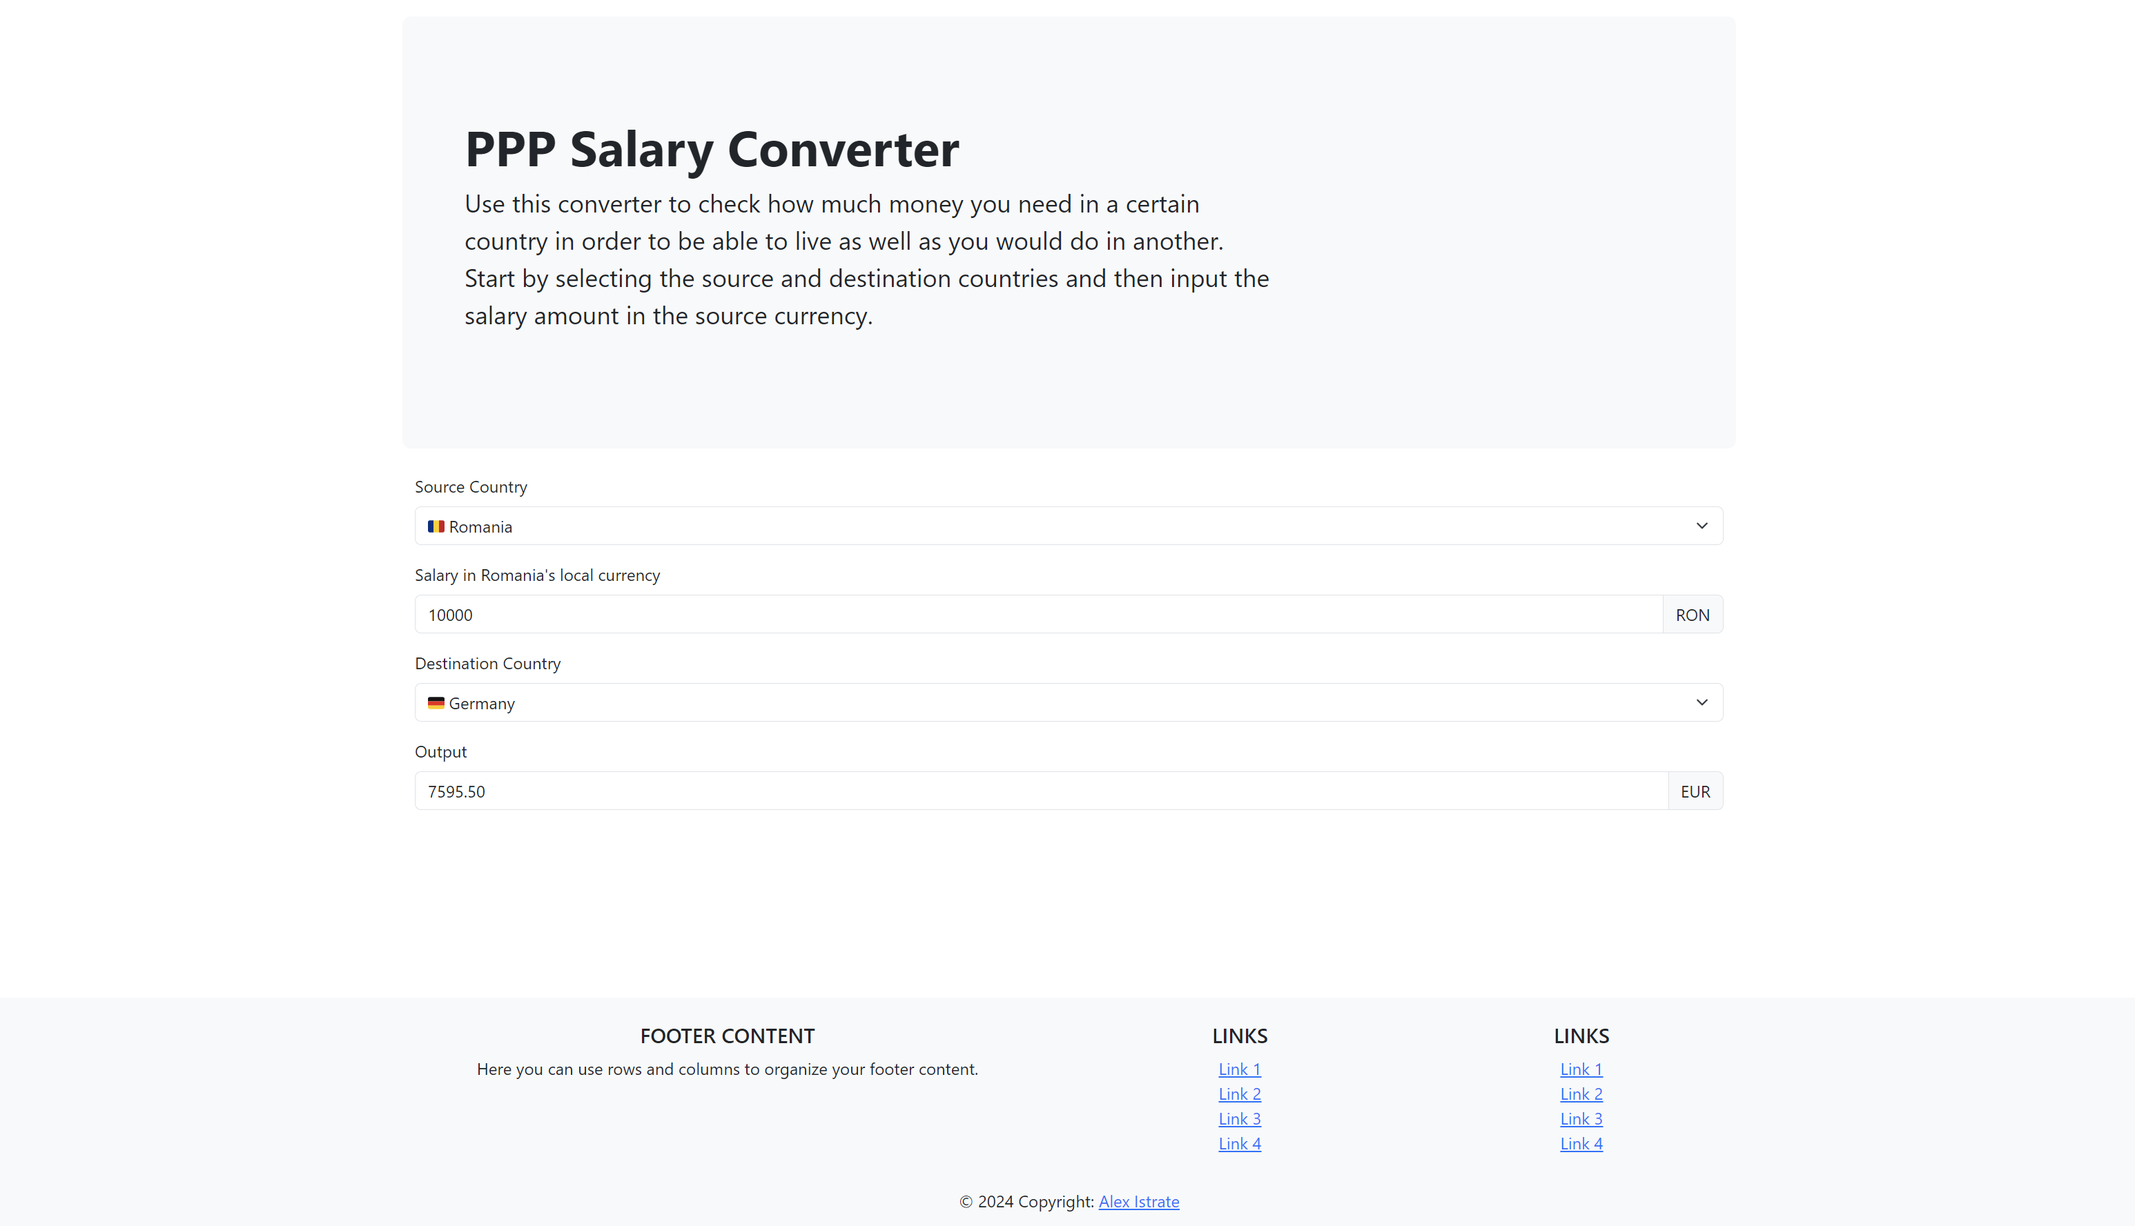
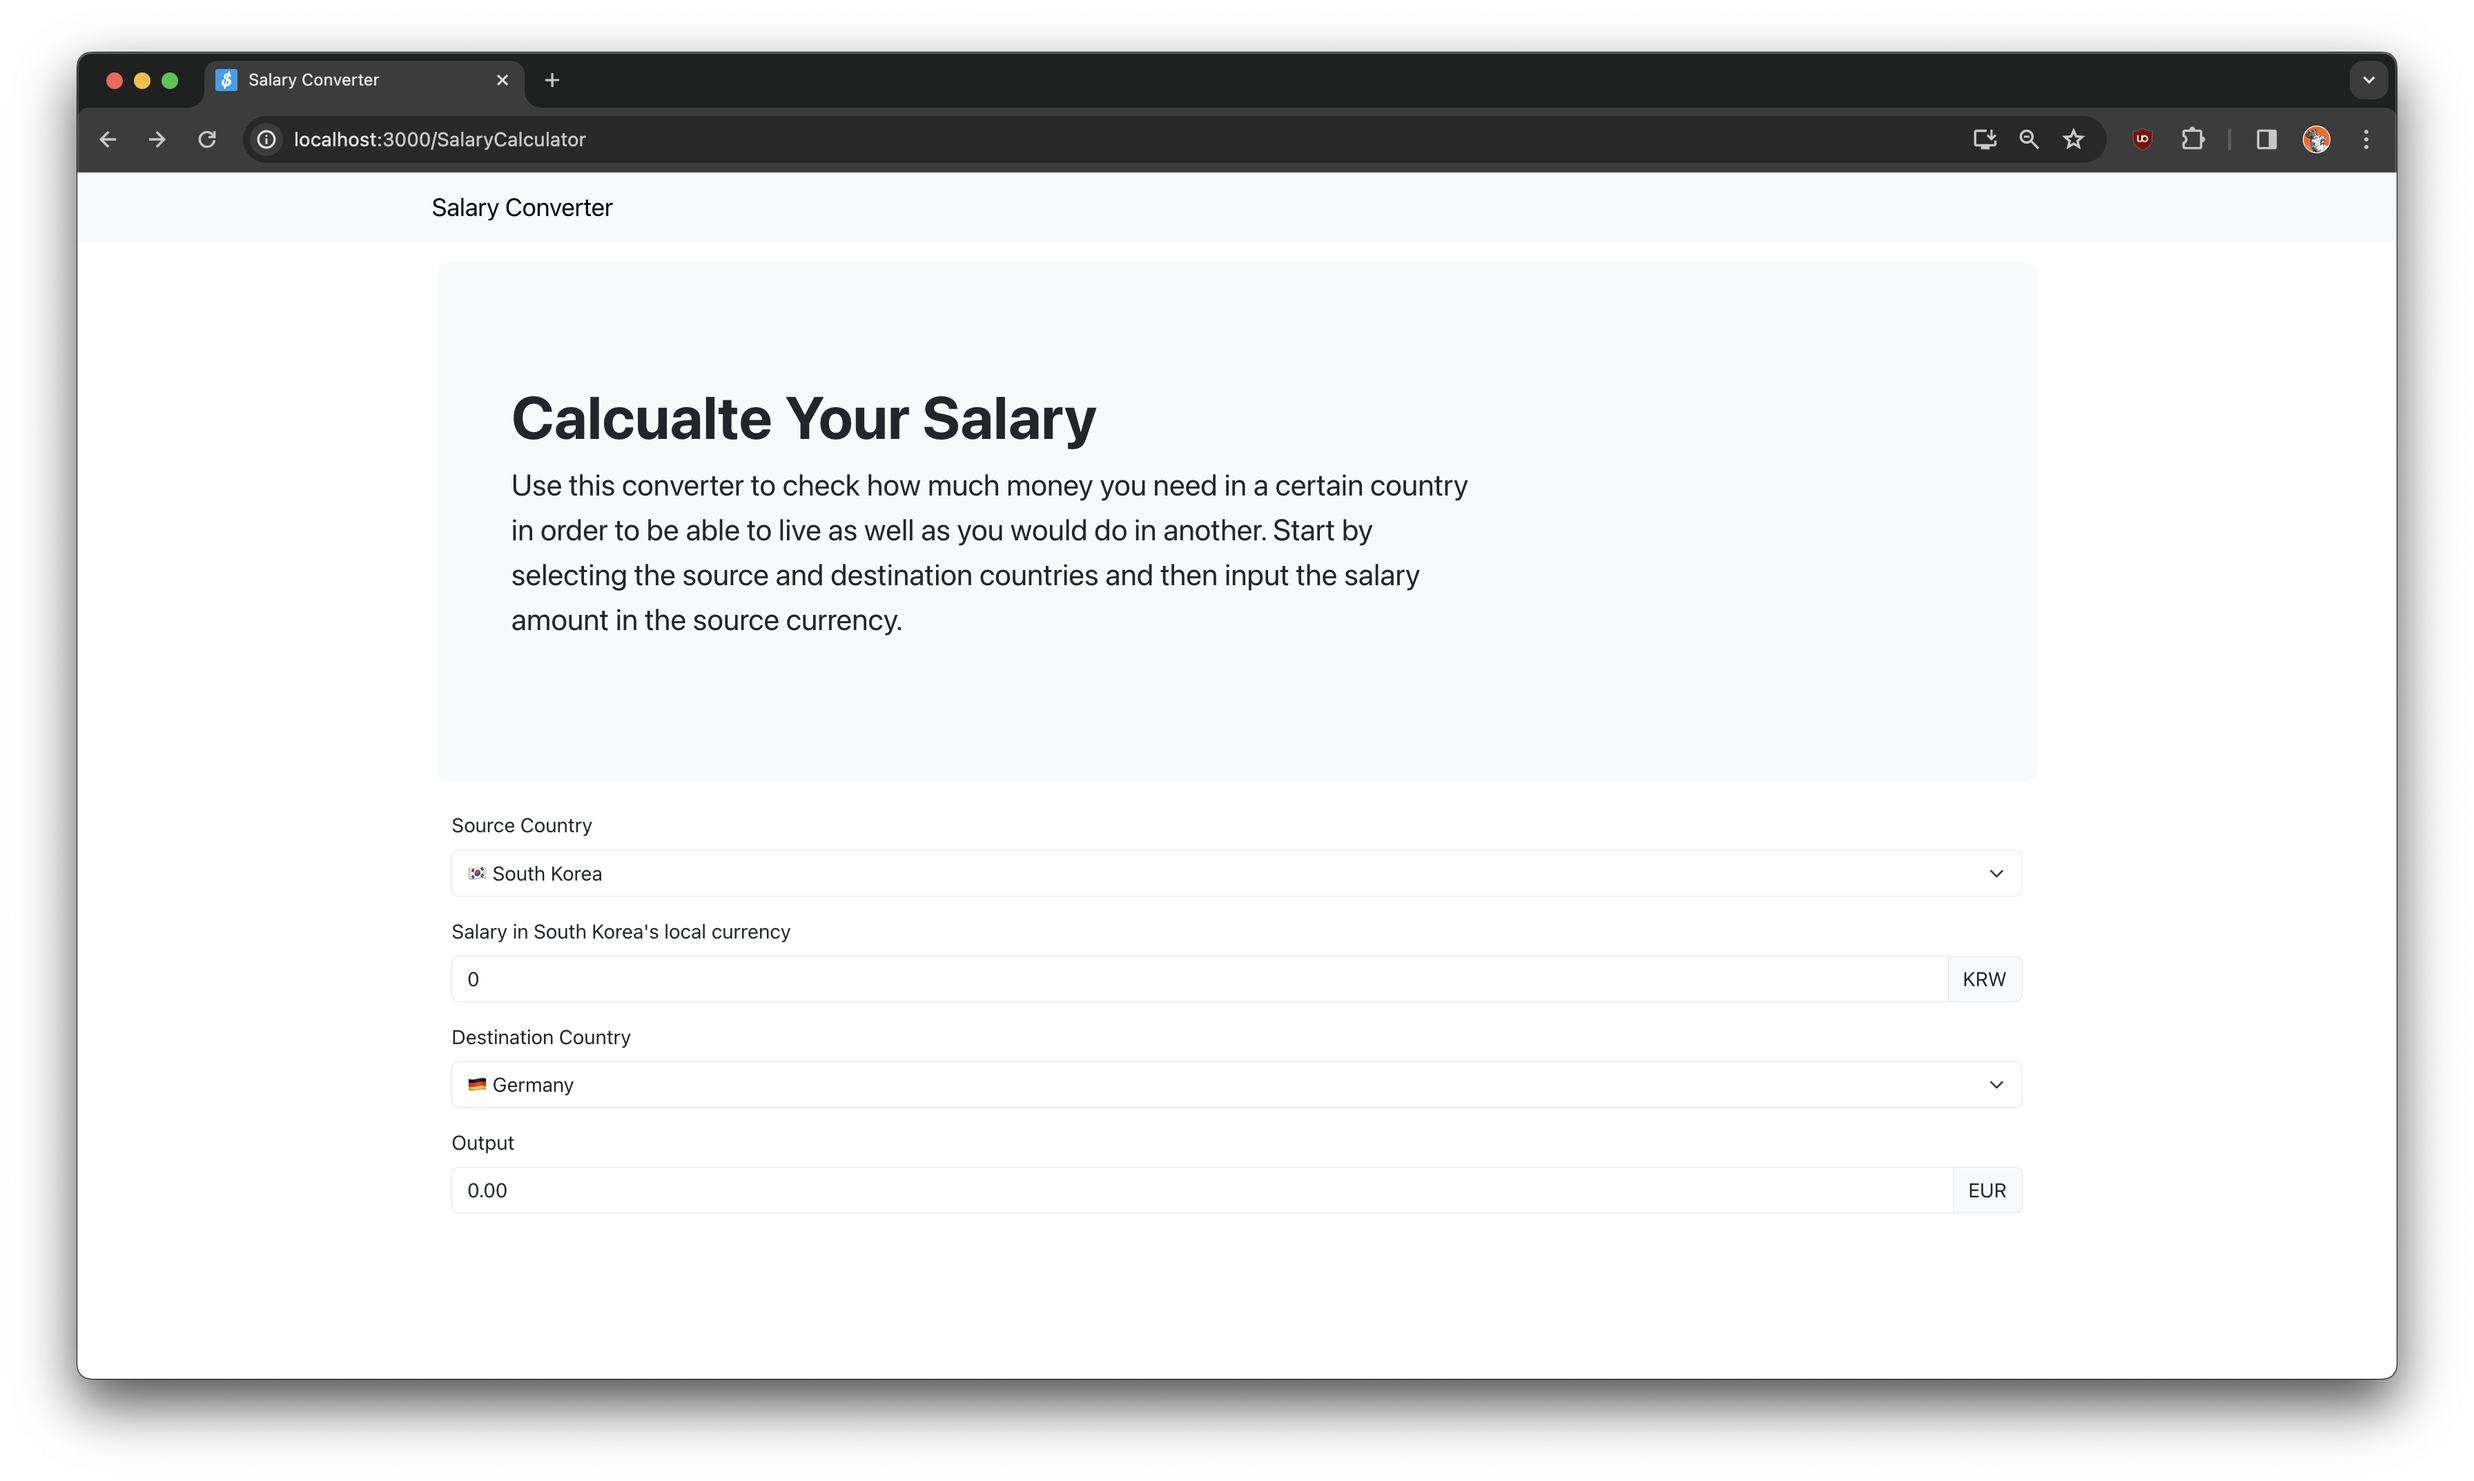
Hook up data to UI

diff --git a/salary-calc/src/App.js b/salary-calc/src/App.js
@@ -22,21 +22,21 @@ function Jumbotron({ title, subtitle }) {
     )
 }
 
-function CountrySelect({ country, onChange }) {
+function CountrySelect({ country, pppData, onChange }) {
     return (
         <Form.Select
             value={country}
             onChange={onChange}
         >
             {
-                Object.entries(countries)
+                Object.entries(pppData)
                     .map(([code, info]) =>
                         <option
                             key={code}
                             value={code}
                         >
                             {/* Display the flag, together with the country name */}
-                            {info.emoji} {info.name}
+                            {info.emoji} {info.countryName}
                         </option>)
             }
         </Form.Select>
@@ -135,35 +135,102 @@ function App() {
     const [sourceCountry, setSourceCountry] = useState(process.env.REACT_APP_DEFAULT_SOURCE_COUNTRY_CODE);
     const [destinationCountry, setDestinationCountry] = useState(process.env.REACT_APP_DEFAULT_DESTINATION_COUNTRY_CODE);
 
+    const [isLoading, setIsLoading] = useState(true);
+    const [pppData, setPPPData] = useState([]);
+
     // Data Loading
     useEffect(() => {
+        // Get the current year
+        const year = new Date().getFullYear();
+
         // Call the World Bank API
         WorldBankAPI
-            .getPPPData()
+            .getPPPData(year - 5, year)
             .then((value) => {
-                // Log this
-                console.log("Got World Bank API response:", value);
+                // Process the data
+                const processed = value[1]
+                    .filter(x => x.value != null)
+                    .map(x => {
+                        // Get the country object
+                        const country = countries[x.country.id];
+
+                        // Return a nice object with all the important info about a country
+                        return {
+                            countryCode: x.country.id,
+                            countryName: country?.name ?? x.country.value,
+                            currency: country?.currency,
+                            emoji: country?.emoji,
+                            date: x.date,
+                            ppp: x.value
+                        }
+                    })
+                    .reduce((acc, item) => {
+                        const countryCode = item.countryCode;
+                        const currentYear = parseInt(item.date);
+
+                        // Check if the current item has a later year than the stored latest year for the country
+                        if (!acc[countryCode] || currentYear > parseInt(acc[countryCode].date)) {
+                            acc[countryCode] = item;
+                        }
+
+                        return acc;
+                    }, {});
+
+                // Log the processed data
+                console.log("PPP Data:", processed);
+
+                // Store the PPP data
+                setPPPData(processed);
+            })
+            .finally(() => {
+                // Always clear the loading state at the end
+                setIsLoading(false);
             });
     }, []);
 
+    // Event handlers
+
     function handleChangeSalary(e) {
+        // Set the new value
         const newValue = e.target.value;
-        // console.log(newValue);
         setSalary(newValue);
 
-        // Set the output
-        setResult(newValue * Math.random());
+        // Recalculate the new salary
+        calculateSalary();
     }
 
     function handleChangeSource(e) {
+        // Set the new value
         const newValue = e.target.value;
-        // console.log(newValue);
         setSourceCountry(newValue);
+
+        // Recalculate the new salary
+        calculateSalary();
     }
 
     function handleChangeDestination(e) {
+        // Set the new value
         const newValue = e.target.value;
         setDestinationCountry(newValue);
+
+        // Recalculate the new salary
+        calculateSalary();
+    }
+
+    // Utility functions
+
+    function calculateSalary() {
+        // Get PPP data for the selected countries
+        const sourcePPP = pppData[sourceCountry].ppp;
+        const destPPP = pppData[destinationCountry].ppp;
+
+        // Calculate the target amount
+        const targetAmount = salary / sourcePPP * destPPP;
+
+        // Set the value of the resulting amount
+        setResult(targetAmount);
+
+        console.log(typeof salary);
     }
 
     return (
@@ -175,61 +242,66 @@ function App() {
 
             {/* Main Content */}
             <main>
-                <Container className="content p-3">
-                    <Jumbotron
-                        title="Calcualte Your Salary"
-                        subtitle="Use this converter to check how much money you need in a certain country in order to be able to live as well as you would do in another. Start by selecting the source and destination countries and then input the salary amount in the source currency."
-                    />
-                    <Container className="mb-5">
-                        <Form>
-                            {/* Source Country */}
-                            <Form.Group
-                                className="mb-3"
-                                controlId="formSourceCountry"
-                            >
-                                <Form.Label>Source Country</Form.Label>
-                                <CountrySelect
-                                    country={sourceCountry}
-                                    onChange={handleChangeSource}
-                                />
-                            </Form.Group>
+                {/* Only display when not loading */}
+                {!isLoading &&
+                    <Container className="content p-3">
+                        <Jumbotron
+                            title="Calcualte Your Salary"
+                            subtitle="Use this converter to check how much money you need in a certain country in order to be able to live as well as you would do in another. Start by selecting the source and destination countries and then input the salary amount in the source currency."
+                        />
+                        <Container className="mb-5">
+                            <Form>
+                                {/* Source Country */}
+                                <Form.Group
+                                    className="mb-3"
+                                    controlId="formSourceCountry"
+                                >
+                                    <Form.Label>Source Country</Form.Label>
+                                    <CountrySelect
+                                        country={sourceCountry}
+                                        pppData={pppData}
+                                        onChange={handleChangeSource}
+                                    />
+                                </Form.Group>
 
-                            {/* Input Salary */}
-                            <Form.Label>Salary in {countries[sourceCountry].name}'s local currency</Form.Label>
-                            <InputGroup className="mb-3">
-                                <Form.Control
-                                    type="text"
-                                    value={salary}
-                                    onChange={handleChangeSalary}
-                                    placeholder="Enter salary" />
-                                <InputGroup.Text>{countries[sourceCountry].currency}</InputGroup.Text>
-                            </InputGroup>
+                                {/* Input Salary */}
+                                <Form.Label>Salary in {pppData[sourceCountry].countryName}'s local currency</Form.Label>
+                                <InputGroup className="mb-3">
+                                    <Form.Control
+                                        type="text"
+                                        value={salary}
+                                        onChange={handleChangeSalary}
+                                        placeholder="Enter salary" />
+                                    <InputGroup.Text>{pppData[sourceCountry].currency}</InputGroup.Text>
+                                </InputGroup>
 
-                            {/* Destination Country */}
-                            <Form.Group
-                                className="mb-3"
-                                controlId="formDestinationCountry"
-                            >
-                                <Form.Label>Destination Country</Form.Label>
-                                <CountrySelect
-                                    country={destinationCountry}
-                                    onChange={handleChangeDestination}
-                                />
-                            </Form.Group>
+                                {/* Destination Country */}
+                                <Form.Group
+                                    className="mb-3"
+                                    controlId="formDestinationCountry"
+                                >
+                                    <Form.Label>Destination Country</Form.Label>
+                                    <CountrySelect
+                                        country={destinationCountry}
+                                        pppData={pppData}
+                                        onChange={handleChangeDestination}
+                                    />
+                                </Form.Group>
 
-                            {/* Output Salary */}
-                            <Form.Label>Output</Form.Label>
-                            <InputGroup className="mb-3">
-                                <Form.Control
-                                    type="text"
-                                    value={result.toFixed(2)}
-                                    readOnly={true}
-                                />
-                                <InputGroup.Text>{countries[destinationCountry].currency.split(",")[0]}</InputGroup.Text>
-                            </InputGroup>
-                        </Form>
+                                {/* Output Salary */}
+                                <Form.Label>Output</Form.Label>
+                                <InputGroup className="mb-3">
+                                    <Form.Control
+                                        type="text"
+                                        value={result.toFixed(2)}
+                                        readOnly={true}
+                                    />
+                                    <InputGroup.Text>{pppData[destinationCountry].currency.split(",")[0]}</InputGroup.Text>
+                                </InputGroup>
+                            </Form>
+                        </Container>
                     </Container>
-                </Container>
+                }
             </main>
 
             {/* Footer */}

diff --git a/salary-calc/src/api/WorldBankAPI.js b/salary-calc/src/api/WorldBankAPI.js
@@ -2,14 +2,17 @@ import { api } from "src/api/axios/AxiosConfigs";
 import { defineCancelAPIObject } from "src/api/axios/AxiosUtils";
 
 export const WorldBankAPI = {
-    getPPPData: async function (cancel = false) {
+    getPPPData: async function (start_year, end_year, cancel = false) {
         const response = await api.request({
             url: "/country/all/indicator/PA.NUS.PPP",
             method: "GET",
             // data: allocationBody,
             // Retrieve the signal value by using the property name
             params: {
-                format: "json"
+                format: "json",
+                per_page: 20000,
+                source: 2,
+                date: `${start_year}:${end_year}`
             },
             signal: cancel ? 
                 cancelAPIObject[this.get.name].handleRequestCancellation().signal : 
